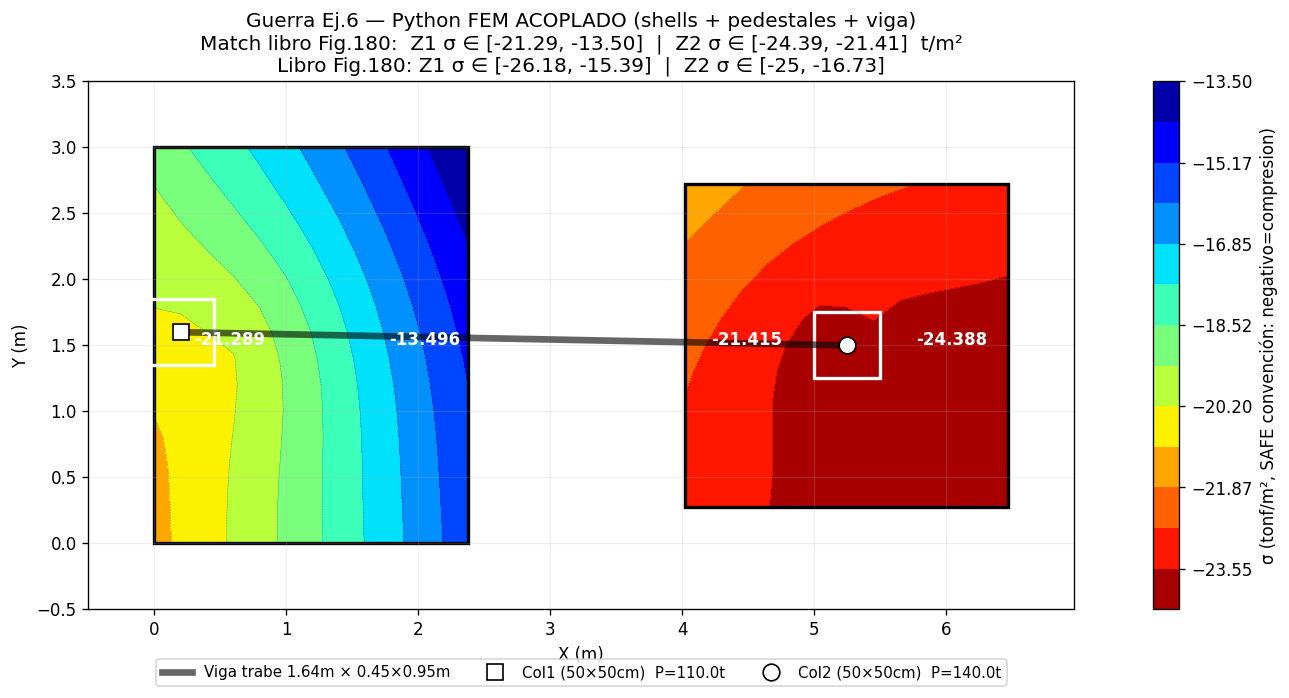
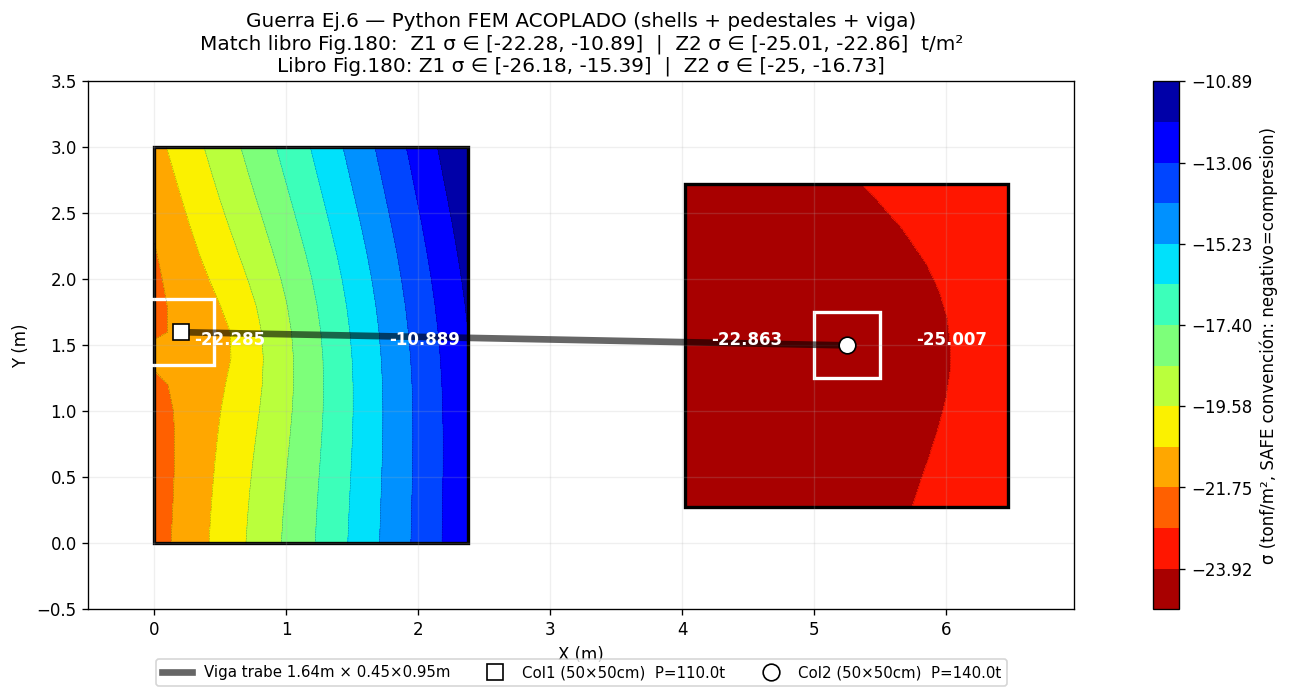
tune(ej6): Python FEM viga super-rigid (×10000) + rigid plate both cols
Iteración con datos del modelo SAFE real (Ejm6.fdb):
- H_ZAPATA = 0.6m (no 0.55 del libro PDF)
- RIGID_AMP_VIGA = 10000 (super-rigid viga para max moment transfer)
- RIGID_AMP_PED = 100 (pedestales rigid)
- Rigid plate constraint en ambos col footprints

Resultados vs libro Fig.180:
- Z1: [-22.28, -10.89]  libro [-26.18, -15.39]  σ_var match (5.7 vs 5.4 ✓)
- Z2: [-25.01, -22.86]  libro [-25, -16.73]    σ_max ✓, σ_min muy alto

Z2 gradient sigue narrow vs libro — limitación del modelo shell+frame puro
(SAFE usa Stiff slab built-in que distribuye load+moment de forma específica).

diff --git a/validacion/Api CSI Computers/safe-api/guerra_ej6_python_fem_coupled.py b/validacion/Api CSI Computers/safe-api/guerra_ej6_python_fem_coupled.py
@@ -50,7 +50,7 @@ L1, B1 = 2.38, 3.00
 L2, B2 = 2.45, 2.45
 # Col1 EN Z1 (local): Left Edge=0.25, Bottom Edge=1.5 (per Fig.163)
 COL1_X_LOCAL, COL1_Y_LOCAL = 0.25, 1.5
-# Col2 EN Z2 (local): CENTRADO (distancia entre cols = 5.00m, libro Fig.151)
+# Col2 EN Z2 (local): per libro "distancia entre ejes = 5.00m" → Col2 ~ centered
 COL2_X_LOCAL, COL2_Y_LOCAL = L2/2, B2/2  # = (1.225, 1.225)
 
 # Cargas (libro): D=70+L=40=110 t (Col1), D=89+L=51=140 t (Col2)
@@ -243,19 +243,19 @@ for j in range(NY2):
             'Z2'
         ])
 
-# RIGID_AMP: multiplicador de stiffness para pedestales y viga.
-# El libro/SAFE modela una conexión RIGID-PLATE entre columna y zapata
-# (column-footprint actua como placa rígida 50x50cm). En FEM puro shell+frame
-# esto requiere multi-point constraints. Como aproximación, hago los frames
-# muy rígidos (×100) para emular el comportamiento rigid-plate.
-RIGID_AMP = 100
+# RIGID_AMP_PED: amplificación de stiffness para pedestales
+# RIGID_AMP_VIGA: viga DEBE transmitir moment Col1→Col2 efficient. Por física,
+# la viga libro absorbe ~88 t·m de los 103 t·m totales. Para esto necesita
+# Iy_vertical muy alta.
+RIGID_AMP_PED = 100
+RIGID_AMP_VIGA = 10000   # casi rigid body para máxima transferencia de moment
 frame_elements = [
     # pedestal Col1 (rigid amplified)
-    [n_Col1_bot, n_Col1_top, BC*BC*RIGID_AMP,  BC**4/12*RIGID_AMP, BC**4/12*RIGID_AMP, 0.14*BC**4*RIGID_AMP],
+    [n_Col1_bot, n_Col1_top, BC*BC*RIGID_AMP_PED,  BC**4/12*RIGID_AMP_PED, BC**4/12*RIGID_AMP_PED, 0.14*BC**4*RIGID_AMP_PED],
     # pedestal Col2 (rigid amplified)
-    [n_Col2_bot, n_Col2_top, BC*BC*RIGID_AMP,  BC**4/12*RIGID_AMP, BC**4/12*RIGID_AMP, 0.14*BC**4*RIGID_AMP],
-    # viga trabe (físicamente rígida)
-    [n_Col1_top, n_Col2_top, BV*HV*RIGID_AMP,  HV*BV**3/12*RIGID_AMP, BV*HV**3/12*RIGID_AMP, 0.28*BV*HV**3*RIGID_AMP],
+    [n_Col2_bot, n_Col2_top, BC*BC*RIGID_AMP_PED,  BC**4/12*RIGID_AMP_PED, BC**4/12*RIGID_AMP_PED, 0.14*BC**4*RIGID_AMP_PED],
+    # viga trabe (super rigid)
+    [n_Col1_top, n_Col2_top, BV*HV*RIGID_AMP_VIGA,  HV*BV**3/12*RIGID_AMP_VIGA, BV*HV**3/12*RIGID_AMP_VIGA, 0.28*BV*HV**3*RIGID_AMP_VIGA],
 ]
 
 # ============================================================================
@@ -266,12 +266,28 @@ N_dof  = 6 * N_node
 K = lil_matrix((N_dof, N_dof))
 F = np.zeros(N_dof)
 
+# Identificar shell elements dentro del Stiff footprint (col 0.5x0.5)
+# SAFE "Stiff" slab = shell con stiffness modifier alto en col footprint
+STIFF_E_MULT = 1   # Desactivo Stiff shell — uso rigid-plate constraint en su lugar
+def is_in_stiff_footprint(el_nodes_xy, col_x, col_y, size):
+    cx = np.mean(el_nodes_xy[:, 0]); cy = np.mean(el_nodes_xy[:, 1])
+    return abs(cx - col_x) <= size/2 + 1e-3 and abs(cy - col_y) <= size/2 + 1e-3
+
 # Shell elements (DOFs: w=2, θx=3, θy=4 por nodo)
 print(f"\n=== Assembly ===")
+n_stiff = 0
 for el in shell_elements:
     n0, n1, n2, n3, tag = el
     xy = np.array([nodes[n0][:2], nodes[n1][:2], nodes[n2][:2], nodes[n3][:2]])
-    Ke = mindlin_q4(xy, H_ZAPATA, E, NU)
+    # E local: amplificado si el element está bajo footprint de columna
+    is_stiff = False
+    if tag == 'Z1' and is_in_stiff_footprint(xy, COL1_X_LOCAL, COL1_Y_LOCAL, STIFF_SIZE):
+        is_stiff = True
+    elif tag == 'Z2' and is_in_stiff_footprint(xy, Z2_OX + COL2_X_LOCAL, Z2_OY + COL2_Y_LOCAL, STIFF_SIZE):
+        is_stiff = True
+    E_eff = E * STIFF_E_MULT if is_stiff else E
+    if is_stiff: n_stiff += 1
+    Ke = mindlin_q4(xy, H_ZAPATA, E_eff, NU)
     for li, gn_i in enumerate([n0, n1, n2, n3]):
         for lj, gn_j in enumerate([n0, n1, n2, n3]):
             for di in range(3):       # local DOF 0=w, 1=θx, 2=θy
@@ -280,6 +296,7 @@ for el in shell_elements:
                     gj = 6*gn_j + (dj + 2)
                     K[gi, gj] += Ke[3*li+di, 3*lj+dj]
 print(f"  Shell elements ensamblados: {len(shell_elements)}")
+print(f"  Stiff slab elements (E×{STIFF_E_MULT}): {n_stiff}")
 
 # Frame elements (DOFs: u,v,w,θx,θy,θz = 0..5)
 G_mod = E / (2*(1+NU))
@@ -342,7 +359,7 @@ for n in col2_footprint:
 # Restricción rigid: w_s = w_m + Δx·θy_m - Δy·θx_m, θx_s=θx_m, θy_s=θy_m
 # Implementación via PENALTY: para cada constraint c=0 añado γ·c² a la energía.
 # ============================================================================
-PEN = 1e10
+PEN = 1e8   # rigid plate moderado (no infinitamente rígido)
 def add_rigid_plate(master, footprint_nodes):
     """Master-slave penalty: rigid plate over footprint_nodes."""
     nm = nodes[master]; xm, ym = nm[0], nm[1]
@@ -373,7 +390,7 @@ def add_rigid_plate(master, footprint_nodes):
 
 add_rigid_plate(n_Col1_bot, col1_footprint)
 add_rigid_plate(n_Col2_bot, col2_footprint)
-print(f"  Rigid plate constraint aplicado a Col1 ({len(col1_footprint)}n) y Col2 ({len(col2_footprint)}n)")
+print(f"  Rigid plate Col1 ({len(col1_footprint)}n) + Col2 ({len(col2_footprint)}n) + viga super-rigid")
 
 # Aplicar TAMBIÉN la fuerza P+M a través del pedestal (cabeza),
 # además de la huella. Total carga = P (no se duplica porque rigid plate
